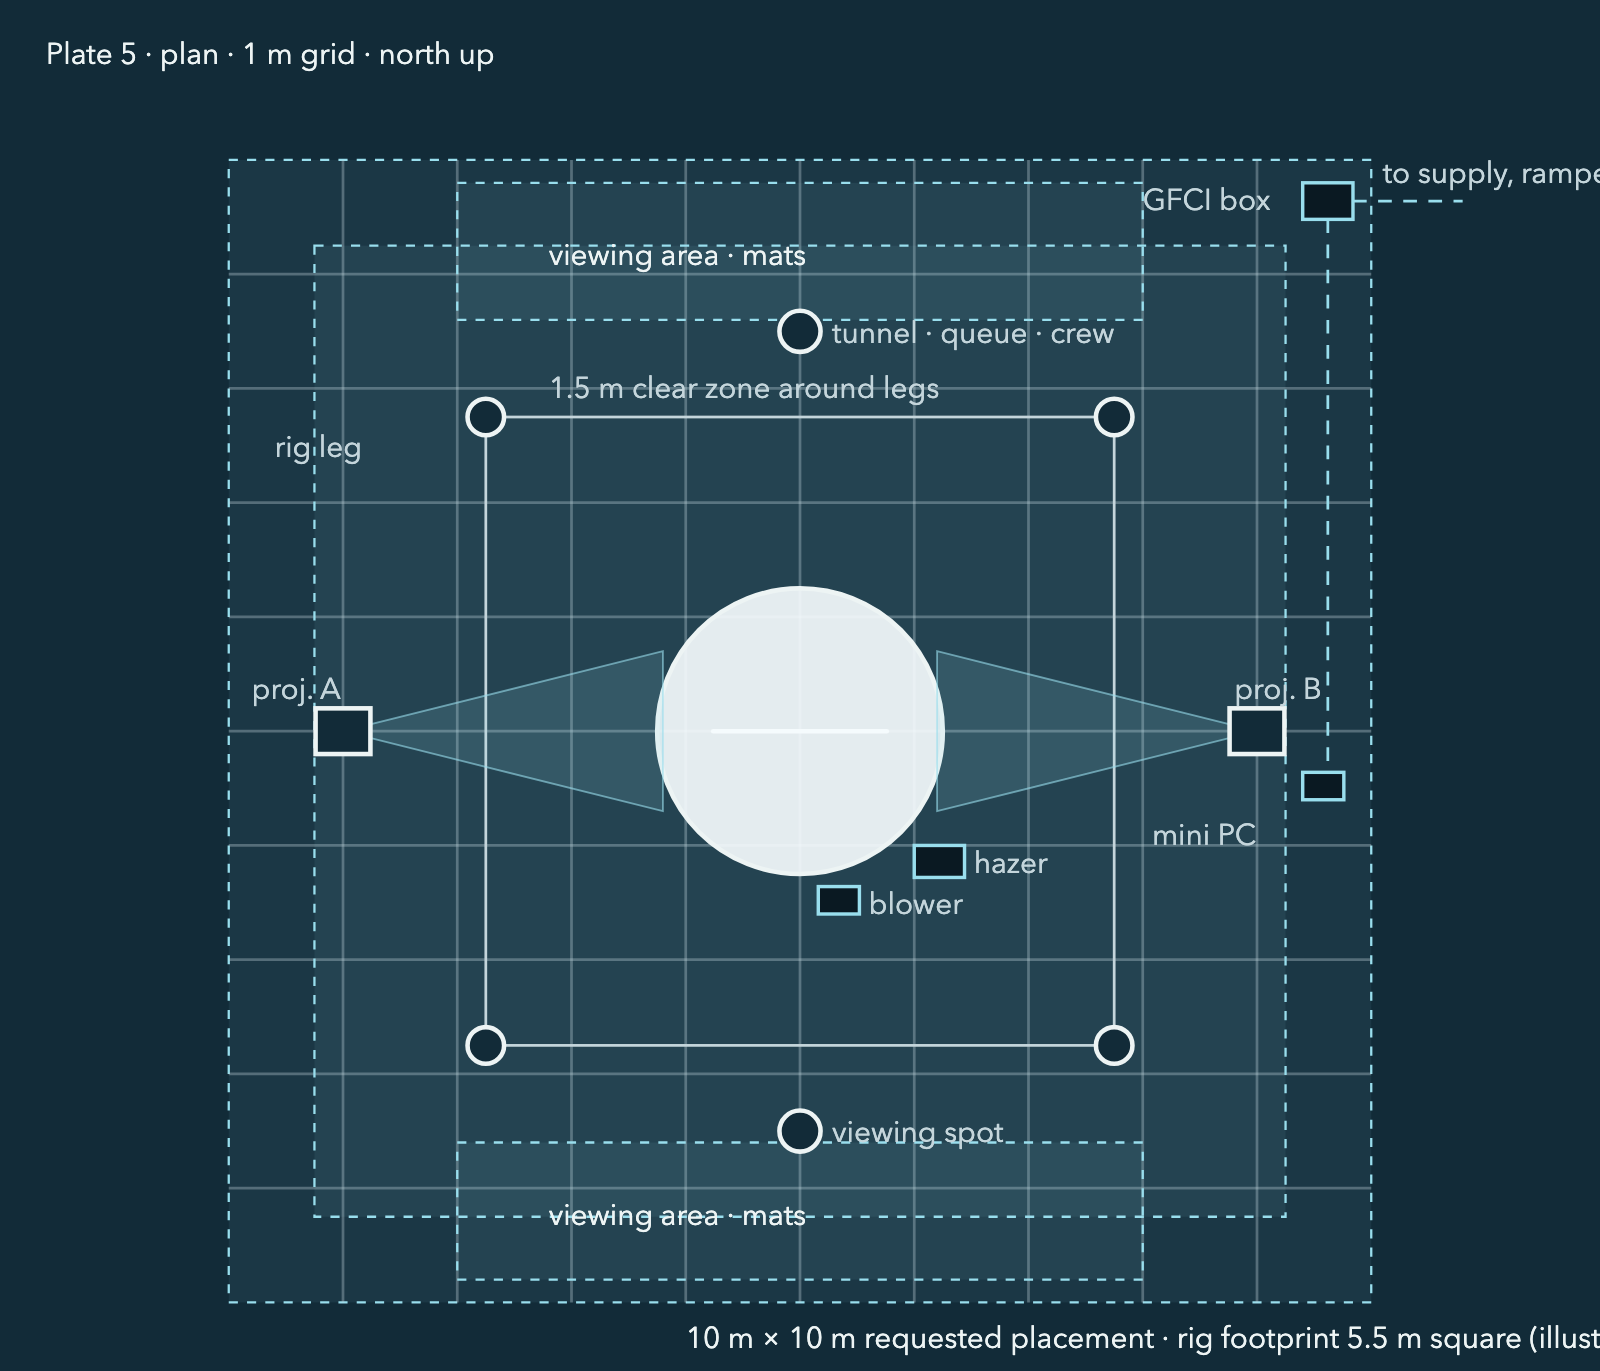
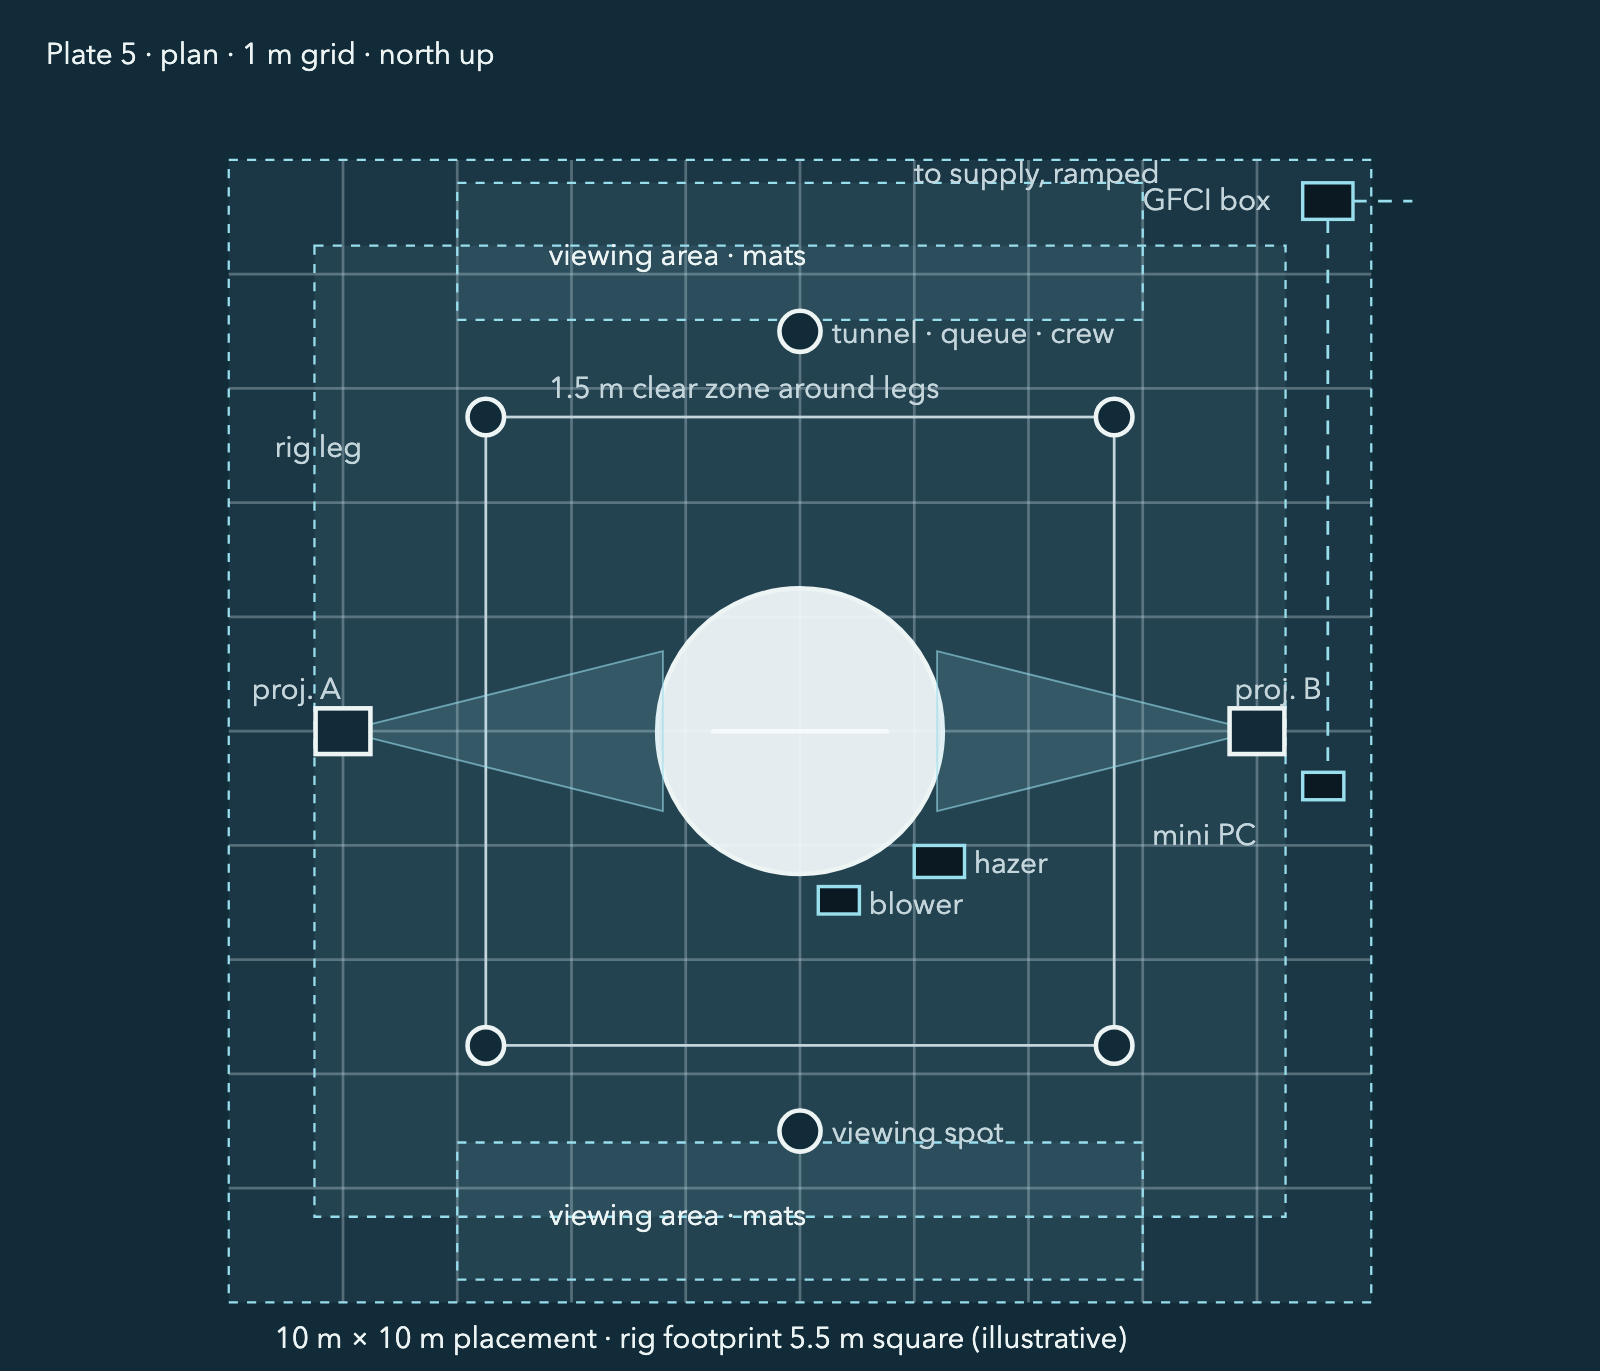
fix: draw the landed state on plate 3 and unclip the plan labels
Plate 3 was still the old foam-cradle ground rest. It now shows the
triangle on its three pinned lander legs with the loop seat, the tunnel,
the person inside and the 1.7 m centre and 2.95 m top. Plate 5's supply
and footprint labels no longer run off the drawing.

Claude-Session: https://claude.ai/code/session_01GkNvL9fxt2nbiAzuk569Mi

diff --git a/site/application/index.html b/site/application/index.html
@@ -144,26 +144,40 @@
         </figure>
         <figure class="plate">
           <svg class="schematic" viewBox="0 0 520 420" role="img" aria-labelledby="p3t p3d">
-            <title id="p3t">Ground-rest fallback</title>
-            <desc id="p3d">The sphere rests on a padded cradle of foam blocks and sandbags with its centre about 1.45 metres above ground. Projectors, Pi, blower and power are unchanged. This is the configuration used in wind or if the rig fit fails.</desc>
+            <title id="p3t">Landed on lander legs</title>
+            <desc id="p3d">The sphere sits in a padded loop at the centre of a steel triangle that stands on three splayed legs with foot pads on sandbags, its centre 1.7 metres above ground and its top at 2.95 metres. One person sits inside; the tunnel is on the side. Projectors, mini PC, blower and power are unchanged. This is the configuration people go inside in, and the one used if no rig is allowed.</desc>
             <rect class="ground" x="0" y="370" width="520" height="50"/>
-            <rect class="solid" x="190" y="340" width="116" height="30"/>
-            <rect class="solid" x="176" y="356" width="24" height="14"/><rect class="solid" x="296" y="356" width="24" height="14"/>
-            <rect class="box" x="150" y="362" width="30" height="8"/><rect class="box" x="316" y="362" width="30" height="8"/>
-            <circle class="sphere" cx="248" cy="272" r="70"/>
-            <polygon class="beam" points="70,272 190,210 190,334"/><polygon class="beam" points="430,272 306,210 306,334"/>
-            <line class="ink" x1="68" y1="370" x2="68" y2="280"/><line class="ink" x1="432" y1="370" x2="432" y2="280"/>
-            <rect class="solid" x="52" y="266" width="32" height="16"/><rect class="solid" x="416" y="266" width="32" height="16"/>
-            <path class="thin" d="M248 342 C248 352 262 356 300 356"/>
-            <rect class="box" x="300" y="350" width="34" height="14"/><rect class="box" x="400" y="352" width="40" height="18"/>
-            <text x="16" y="26">Plate 3 · resting on a cradle</text>
-            <text x="16" y="44" class="muted">worst case: wind above the limit, or the rig does not fit</text>
-            <text x="200" y="334" class="muted">foam cradle + mats</text>
-            <text x="120" y="398" class="muted">sandbags</text><text x="316" y="398" class="muted">sandbags</text>
-            <text x="340" y="346" class="muted">blower</text><text x="400" y="346" class="muted">GFCI box</text>
-            <line class="dash" x1="340" y1="272" x2="340" y2="370"/><text x="346" y="320" class="muted">centre ≈ 1.45 m</text>
+            <!-- legs, pads, triangle bar and loop -->
+            <line class="thin" x1="248" y1="329" x2="248" y2="366"/>
+            <line class="ink" x1="165" y1="329" x2="122" y2="366"/><line class="ink" x1="331" y1="329" x2="374" y2="366"/>
+            <rect class="solid" x="104" y="364" width="36" height="6"/><rect class="solid" x="356" y="364" width="36" height="6"/><rect class="solid" x="232" y="364" width="32" height="6"/>
+            <line class="ink" x1="161" y1="329" x2="335" y2="329" stroke-width="4"/>
+            <circle class="solid" cx="165" cy="329" r="3"/><circle class="solid" cx="331" cy="329" r="3"/>
+            <ellipse class="thin" cx="248" cy="323" rx="51" ry="6"/>
+            <!-- sphere, tunnel, person -->
+            <circle class="sphere" cx="248" cy="275" r="70"/>
+            <ellipse class="thin" cx="313" cy="291" rx="6" ry="18"/>
+            <circle class="solid" cx="248" cy="304" r="6"/><line x1="248" y1="310" x2="248" y2="330" stroke="#0a1922" stroke-width="2.5"/><line x1="248" y1="330" x2="238" y2="338" stroke="#0a1922" stroke-width="2.5"/><line x1="248" y1="330" x2="258" y2="338" stroke="#0a1922" stroke-width="2.5"/>
+            <!-- projectors -->
+            <polygon class="beam" points="70,275 190,213 190,337"/><polygon class="beam" points="430,275 306,213 306,337"/>
+            <line class="ink" x1="68" y1="370" x2="68" y2="283"/><line class="ink" x1="432" y1="370" x2="432" y2="283"/>
+            <rect class="solid" x="52" y="269" width="32" height="16"/><rect class="solid" x="416" y="269" width="32" height="16"/>
+            <!-- blower and power -->
+            <path class="thin" d="M248 345 C250 356 262 360 272 360"/>
+            <rect class="box" x="272" y="353" width="30" height="13"/><rect class="box" x="456" y="352" width="40" height="18"/>
+            <path class="thin" d="M302 360 L456 360"/>
+            <!-- dimensions -->
+            <path class="dash" d="M480 205 L480 370"/><text x="392" y="200" class="muted">top 2.95 m · 9 ft 8 in</text>
+            <path class="dash" d="M318 275 L410 275"/><text x="440" y="302" class="muted">centre 1.7 m</text>
+            <text x="16" y="26">Plate 3 · landed on lander legs</text>
+            <text x="16" y="44" class="muted">where people go inside · the no-rig fallback · nothing overhead or to climb</text>
+            <text x="320" y="296" class="muted">tunnel</text>
+            <text x="16" y="316" class="muted">steel triangle</text><text x="16" y="330" class="muted">· loop seat</text>
+            <text x="276" y="349" class="muted">blower</text><text x="454" y="348" class="muted">GFCI box</text>
+            <text x="16" y="390" class="muted">lander legs pinned to the corner plates · foot pads on sandbags · no stakes</text>
+            <text x="16" y="406" class="muted">sized for the sphere plus one seated person; proof-loaded at the bench test</text>
           </svg>
-          <figcaption><strong>The two-person, five-minute fallback.</strong> Lower the sphere onto the cradle, re-aim the projectors, keep running. The piece still works; it just stops floating.</figcaption>
+          <figcaption><strong>The landed state.</strong> The same triangle on three pinned legs: centre at the same 1.7 m, top just under 10 ft, tunnel at knee height, blower on, a crew member at the door. This is where people go inside, and the whole piece if no rig is allowed.</figcaption>
         </figure>
       </div>
     </section>
@@ -293,10 +307,10 @@
             <rect class="box" x="258" y="318" width="18" height="12"/><text x="280" y="330" class="muted">blower</text>
             <rect class="box" x="470" y="268" width="18" height="12"/><text x="404" y="300" class="muted">mini PC</text>
             <rect class="box" x="470" y="10" width="22" height="16"/><text x="400" y="22" class="muted">GFCI box</text>
-            <path class="dash" d="M481 26 L481 268"/><path class="dash" d="M492 18 L540 18"/><text x="505" y="10" class="muted">to supply, ramped</text>
+            <path class="dash" d="M481 26 L481 268"/><path class="dash" d="M492 18 L518 18"/><text x="300" y="10" class="muted">to supply, ramped</text>
             <text x="20" y="130" class="muted">rig leg</text><text x="140" y="104" class="muted">1.5 m clear zone around legs</text>
             <text x="10" y="236" class="muted">proj. A</text><text x="440" y="236" class="muted">proj. B</text>
-            <text x="200" y="520">10 m × 10 m requested placement · rig footprint 5.5 m square (illustrative)</text>
+            <text x="20" y="520">10 m × 10 m placement · rig footprint 5.5 m square (illustrative)</text>
           </g>
         </svg>
         <figcaption><strong>Where things go.</strong> The tunnel faces north, where the queue and the crew member stand; the south side is the widest view, and nobody walks through a beam. The projectors’ backs face east and west, so spill onto neighbours is minimal.</figcaption>
